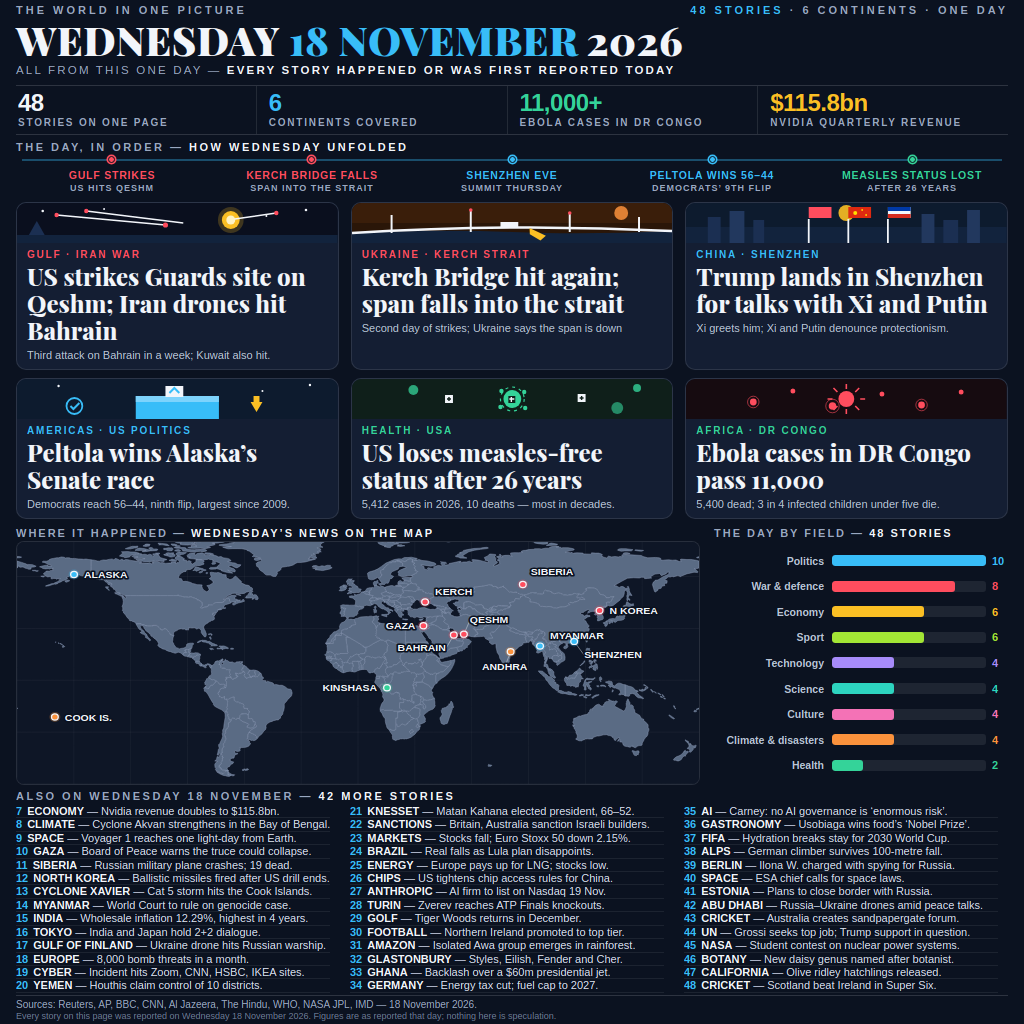
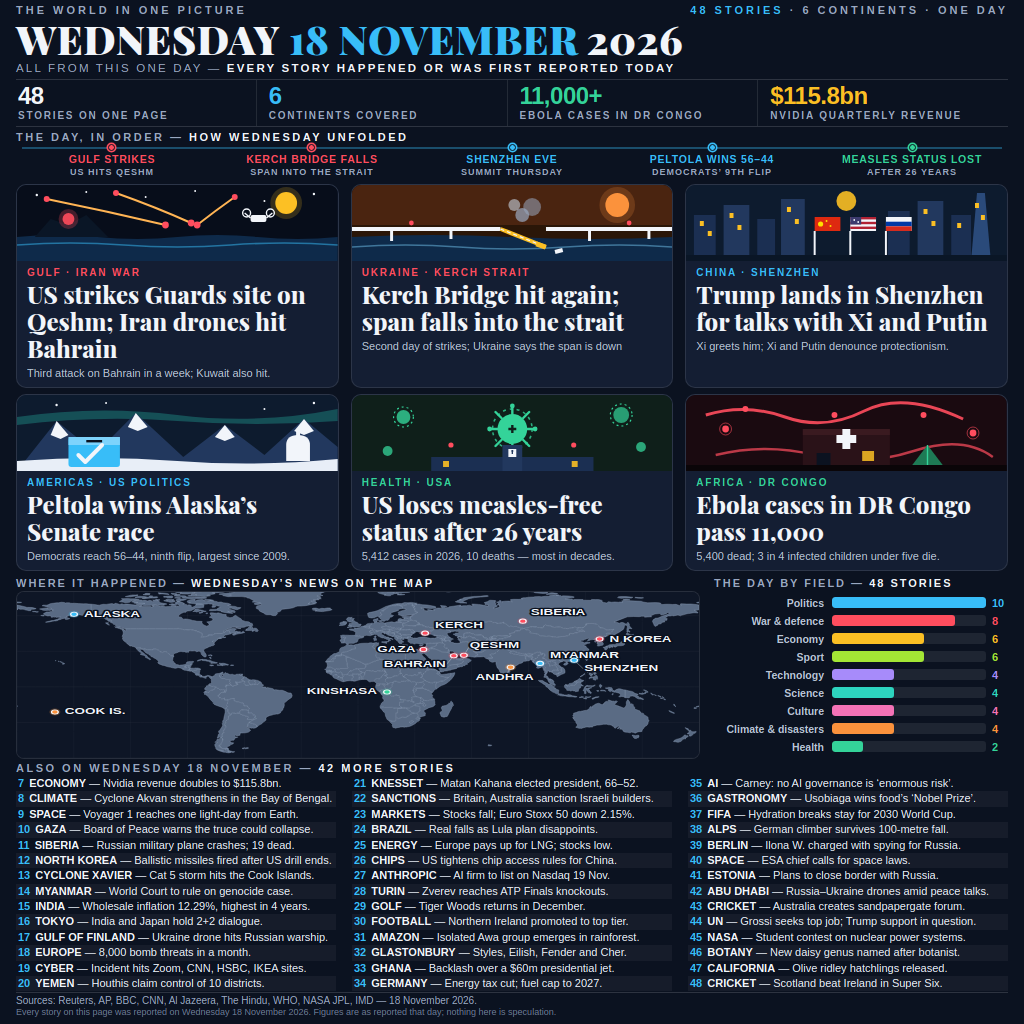
Round 8: big photo-style story panels readable at 300px

diff --git a/page.html b/page.html
@@ -4,17 +4,20 @@
 <meta charset="utf-8">
 <title>Wednesday 18 November 2026 — The Day in One Picture</title>
 <style>
-  /* Round 6 — the readability round. Danny's goal is top 1, and the parent
-     proved the gap at 300px: the #1 entry's big serif headlines partly read
-     at 300px wide, ours (14px) did not. So the leads are rebuilt: 6 BIG
-     cards only, 2 rows of 3, Playfair Display headlines at 24px, short
-     punchy wording, max 2 lines. The 6 old mini cards move into the ALSO
-     list (now 42 items, 7-48). Nothing else changes: the same dark navy
-     board, the same serif masthead, the same real Natural Earth map, the
-     same fixed timeline (7px dots ON the track, clear air to every letter).
-     Sans stays for everything small — at 300px a small serif turns to mush.
-     Playfair is vendored in fonts/ under the SIL OFL 1.1, so the render
-     needs no network. */
+  /* Round 8 — the photo-panel round. The judge's recurring praise for
+     OPPONENT entries is that their big photographic panels "read instantly
+     even small": at 300px the judge grasps each story from the picture
+     alone. Round 6/7 are mostly text, so round 8 gives each of the 6 lead
+     cards a BIG photo-style SVG scene (~76px, ~40% of the card) drawn in
+     original flat-vector style: Gulf missiles/drones over the night sea,
+     the Kerch span collapsing, the Shenzhen skyline with three flags,
+     Alaska mountains + ballot box + dome, a spiky measles virus + hospital,
+     an Ebola clinic + filament virus. All 48 story texts are byte-identical
+     to round 7; only page.html + main.ts changed.
+     GEOMETRY (measured, headless Chrome): scene 40->76 adds 36px/row
+     (+72 total); paid for by map 215->168 (-47) plus hero/spine/rows/
+     mapzone/alsotitle trims (-13); map labels 12.5->13.5 to offset the
+     extra vertical squash. */
   @font-face {
     font-family:"Playfair Display";
     src:url("fonts/PlayfairDisplay.ttf") format("truetype");
@@ -30,14 +33,14 @@
   /* masthead — broadsheet nameplate, serif 900, one line */
   .toprow { display:flex; justify-content:space-between; font-size:11px; font-weight:800; letter-spacing:3px; color:#9AA8C0; }
   .toprow b { color:#38BDF8; }
-  h1.nameplate { font-family:"Playfair Display", Georgia, "Liberation Serif", serif; font-size:40px; font-weight:900; line-height:1.04; letter-spacing:0.4px; margin-top:3px; }
+  h1.nameplate { font-family:"Playfair Display", Georgia, "Liberation Serif", serif; font-size:40px; font-weight:900; line-height:1.04; letter-spacing:0.4px; margin-top:2px; }
   h1.nameplate span { color:#38BDF8; }
-  .strapline { font-size:11.5px; letter-spacing:2.2px; color:#9AA8C0; margin-top:3px; }
+  .strapline { font-size:11.5px; letter-spacing:2.2px; color:#9AA8C0; margin-top:2px; }
   .strapline b { color:#F2F5FA; }
 
   /* hero numbers — sans, numbers stay clean */
-  .hero { display:flex; margin-top:9px; border-top:1px solid rgba(255,255,255,0.14); border-bottom:1px solid rgba(255,255,255,0.14); }
-  .hero .cell { flex:1; padding:5px 12px 6px; border-left:1px solid rgba(255,255,255,0.10); }
+  .hero { display:flex; margin-top:5px; border-top:1px solid rgba(255,255,255,0.14); border-bottom:1px solid rgba(255,255,255,0.14); }
+  .hero .cell { flex:1; padding:4px 12px 5px; border-left:1px solid rgba(255,255,255,0.10); }
   .hero .cell:first-child { border-left:none; padding-left:2px; }
   .hero .big { font-size:24px; font-weight:800; line-height:1; letter-spacing:-0.5px; }
   .hero .cap { font-size:10px; font-weight:800; letter-spacing:1.8px; color:#9AA8C0; margin-top:2px; }
@@ -48,12 +51,12 @@
   /* timeline — round 4 geometry, unchanged: dots live ON the 2px track
      (7px disc, 1.5px dark border + 1.5px colour ring = 10px visual), the
      header 6px above the track, the event names 10px below it. */
-  .spine { margin-top:6px; }
-  .spine .shead { font-size:11px; font-weight:800; letter-spacing:2.5px; color:#9AA8C0; margin-bottom:6px; }
+  .spine { margin-top:4px; }
+  .spine .shead { font-size:11px; font-weight:800; letter-spacing:2.5px; color:#9AA8C0; margin-bottom:4px; }
   .spine .shead b { color:#F2F5FA; }
   .spine .rail { position:relative; height:2px; background:rgba(56,189,248,0.35); margin:0 6px; }
   .spine .rail .dot { position:absolute; top:50%; width:7px; height:7px; margin:-3.5px 0 0 -3.5px; border-radius:50%; border:1.5px solid #0B1220; box-shadow:0 0 0 1.5px currentColor; background:currentColor; }
-  .spine .stops { display:flex; justify-content:space-between; margin:8px 6px 0; }
+  .spine .stops { display:flex; justify-content:space-between; margin:4px 6px 0; }
   .spine .stop { position:relative; width:180px; text-align:center; }
   .spine .stop .ev { font-size:10.5px; font-weight:800; letter-spacing:0.8px; line-height:1.25; }
   .spine .stop .ev small { display:block; font-size:9px; font-weight:700; color:#9AA8C0; letter-spacing:1px; margin-top:1px; }
@@ -63,20 +66,20 @@
      the parent's exact wording) needs 3 lines at any size >=21px — measured
      with canvas measureText — and it reads word-for-word at 300px, which is
      the acceptance test, so it stays verbatim instead of losing "Guards". */
-  .row { display:flex; gap:12px; margin-top:8px; }
+  .row { display:flex; gap:12px; margin-top:6px; }
   .story { flex:1; width:0; background:#141E33; border:1px solid rgba(255,255,255,0.10); border-radius:10px; overflow:hidden; }
-  .story .scene { width:100%; height:40px; display:block; }
+  .story .scene { width:100%; height:76px; display:block; }
   .story .txt { padding:6px 10px 7px; }
   .story .tag { font-size:10px; font-weight:800; letter-spacing:1.8px; }
   .story h2 { font-family:"Playfair Display", Georgia, "Liberation Serif", serif; font-size:24px; font-weight:800; line-height:1.12; margin-top:3px; }
   .story p { font-size:11px; line-height:1.3; color:#B9C4D6; margin-top:4px; white-space:nowrap; overflow:hidden; }
 
   /* map + field bars */
-  .mapzone { display:flex; gap:14px; margin-top:8px; }
+  .mapzone { display:flex; gap:14px; margin-top:6px; }
   .mapcol { width:684px; }
   .mapcol h4, .chartcol h4 { font-size:11px; font-weight:800; letter-spacing:2px; color:#9AA8C0; margin-bottom:2px; }
   .mapcol h4 b, .chartcol h4 b { color:#F2F5FA; }
-  #worldmap { width:684px; height:244px; display:block; background:#0E1626; border:1px solid rgba(255,255,255,0.10); border-radius:8px; }
+  #worldmap { width:684px; height:168px; display:block; background:#0E1626; border:1px solid rgba(255,255,255,0.10); border-radius:8px; }
   .chartcol { width:294px; display:flex; flex-direction:column; }
   .bars { flex:1; display:flex; flex-direction:column; justify-content:space-evenly; }
   .brow { display:flex; align-items:center; }
@@ -85,17 +88,22 @@
   .brow .bf { height:11px; border-radius:3px; }
   .brow .bn { width:22px; font-size:11px; font-weight:800; padding-left:6px; }
 
-  /* also list — 42 items now (7-48), three columns of 14 */
-  .alsotitle { font-size:11px; font-weight:800; letter-spacing:2.5px; color:#9AA8C0; margin:5px 0 3px; }
+  /* also list — 42 items (7-48), three columns of 14. Round 7: body
+     weight 600 + brighter ink + leading 1.4 + alternating row tint, so
+     the list reads better at full size and holds up better small. The
+     font stays 11px: the widest item is 314.4px at 11px and the columns
+     are 320px — any larger size truncates it (measured, not guessed). */
+  .alsotitle { font-size:11px; font-weight:800; letter-spacing:2.5px; color:#9AA8C0; margin:3px 0 2px; }
   .alsotitle b { color:#F2F5FA; }
-  .also { display:flex; gap:20px; }
-  .also ul { list-style:none; width:314px; }
-  .also li { font-size:11px; line-height:1.13; padding:0; border-bottom:1px solid rgba(255,255,255,0.07); white-space:nowrap; overflow:hidden; color:#D7DEEA; }
+  .also { display:flex; gap:16px; }
+  .also ul { list-style:none; width:320px; }
+  .also li { font-size:11px; line-height:1.4; padding:0 2px; white-space:nowrap; overflow:hidden; color:#E6ECF5; }
+  .also li:nth-child(even) { background:rgba(255,255,255,0.045); }
   .also li b { font-weight:800; color:#F2F5FA; }
   .also li .no { font-weight:800; margin-right:5px; color:#38BDF8; }
 
   /* footer */
-  .foot { margin-top:2px; border-top:1px solid rgba(255,255,255,0.14); padding-top:2px; }
+  .foot { margin-top:1px; border-top:1px solid rgba(255,255,255,0.14); padding-top:1px; }
   .foot .src { font-size:10px; color:#9AA8C0; line-height:1.3; }
   .foot .fine { font-size:9px; color:#6B7A94; margin-top:0; }
 </style>
@@ -133,44 +141,70 @@
 
   <div class="row">
     <div class="story">
-      <svg class="scene" viewBox="0 0 324 40" preserveAspectRatio="none">
-        <rect width="324" height="40" fill="#0A0F1E"/>
-        <circle cx="26" cy="8" r="1.3" fill="#F2F5FA"/><circle cx="88" cy="6" r="1" fill="#F2F5FA"/><circle cx="292" cy="7" r="1.3" fill="#F2F5FA"/><circle cx="252" cy="13" r="1" fill="#F2F5FA"/>
-        <path d="M0 32 L324 32 L324 40 L0 40 Z" fill="#12233D"/>
-        <circle cx="216" cy="17" r="9" fill="#FBBF24"/><circle cx="216" cy="17" r="13" fill="#FBBF24" opacity="0.22"/><circle cx="216" cy="17" r="4.5" fill="#FFF3C4"/>
-        <path d="M40 12 L150 22 M70 8 L168 20 M262 10 L220 16" stroke="#F2F5FA" stroke-width="1.4"/>
-        <circle cx="40" cy="12" r="2.2" fill="#FF4D5E"/><circle cx="70" cy="8" r="2.2" fill="#FF4D5E"/><circle cx="262" cy="10" r="2.2" fill="#FF4D5E"/>
-        <path d="M12 32 L20 18 L28 32 Z" fill="#1B2F52"/><circle cx="150" cy="22" r="2.6" fill="#FF4D5E"/>
+      <svg class="scene" viewBox="0 0 324 76" preserveAspectRatio="none">
+        <rect width="324" height="76" fill="#070D1A"/>
+        <circle cx="20" cy="10" r="1.2" fill="#F2F5FA"/><circle cx="70" cy="7" r="1" fill="#F2F5FA"/><circle cx="130" cy="12" r="1" fill="#F2F5FA"/><circle cx="300" cy="9" r="1.2" fill="#F2F5FA"/><circle cx="250" cy="16" r="1" fill="#F2F5FA"/><circle cx="180" cy="6" r="1" fill="#F2F5FA"/>
+        <circle cx="272" cy="18" r="11" fill="#FBBF24"/><circle cx="272" cy="18" r="16" fill="#FBBF24" opacity="0.18"/>
+        <path d="M0 52 Q40 48 81 52 T162 52 T243 52 T324 52 L324 76 L0 76 Z" fill="#0E2A4A"/>
+        <path d="M0 60 Q54 56 108 60 T216 60 T324 60" stroke="#38BDF8" stroke-width="1.6" fill="none" opacity="0.5"/>
+        <path d="M18 52 L34 34 L52 40 L70 30 L92 52 Z" fill="#0A1626"/>
+        <path d="M30 14 Q90 26 150 40" stroke="#FFB454" stroke-width="2" fill="none"/>
+        <path d="M100 8 Q140 22 176 38" stroke="#FFB454" stroke-width="2" fill="none"/>
+        <path d="M220 12 Q200 26 182 40" stroke="#FFB454" stroke-width="2" fill="none"/>
+        <circle cx="30" cy="14" r="3" fill="#FF4D5E"/><circle cx="100" cy="8" r="3" fill="#FF4D5E"/><circle cx="220" cy="12" r="3" fill="#FF4D5E"/>
+        <circle cx="150" cy="40" r="3.4" fill="#FF4D5E"/><circle cx="176" cy="38" r="3.4" fill="#FF4D5E"/><circle cx="182" cy="40" r="3.4" fill="#FF4D5E"/>
+        <circle cx="52" cy="34" r="6" fill="#FF4D5E" opacity="0.9"/><circle cx="52" cy="34" r="10" fill="#FF4D5E" opacity="0.25"/>
+        <rect x="236" y="30" width="16" height="7" rx="2" fill="#F2F5FA"/>
+        <circle cx="232" cy="28" r="4" fill="none" stroke="#F2F5FA" stroke-width="1.4"/><circle cx="256" cy="28" r="4" fill="none" stroke="#F2F5FA" stroke-width="1.4"/>
+        <path d="M236 33 L230 28 M252 33 L258 28" stroke="#F2F5FA" stroke-width="1.4"/>
       </svg>
       <div class="txt"><div class="tag r">GULF &middot; IRAN WAR</div>
       <h2>US strikes Guards site on Qeshm; Iran drones hit Bahrain</h2>
       <p>Third attack on Bahrain in a week; Kuwait also hit.</p></div>
     </div>
     <div class="story">
-      <svg class="scene" viewBox="0 0 324 40" preserveAspectRatio="none">
-        <rect width="324" height="40" fill="#2A1608"/>
-        <rect y="0" width="324" height="20" fill="#3A1E0A"/>
-        <circle cx="272" cy="10" r="7" fill="#FB923C" opacity="0.85"/>
-        <path d="M0 30 Q90 26 162 29 T324 28 L324 40 L0 40 Z" fill="#12233D"/>
-        <path d="M0 30 Q162 20 324 28" stroke="#F2F5FA" stroke-width="2.6" fill="none"/>
-        <path d="M150 24 L168 24 L168 19 L150 19 Z" fill="#F2F5FA"/>
-        <path d="M178 27 L196 30 L192 36 L180 33 Z" fill="#FBBF24" transform="rotate(16 186 31)"/>
-        <path d="M40 30 L40 12 M120 29 L120 8 M220 29 L220 11 M290 29 L290 14" stroke="#F2F5FA" stroke-width="2"/>
-        <circle cx="120" cy="7" r="1.8" fill="#FF4D5E"/><circle cx="220" cy="10" r="1.8" fill="#FF4D5E"/>
+      <svg class="scene" viewBox="0 0 324 76" preserveAspectRatio="none">
+        <rect width="324" height="76" fill="#2A1608"/>
+        <rect width="324" height="40" fill="#4A2410"/>
+        <circle cx="268" cy="20" r="12" fill="#FB923C"/><circle cx="268" cy="20" r="18" fill="#FB923C" opacity="0.2"/>
+        <path d="M0 52 Q81 48 162 52 T324 52 L324 76 L0 76 Z" fill="#0E2A4A"/>
+        <path d="M0 62 Q54 58 108 62 T216 62 T324 62" stroke="#7DD3FC" stroke-width="1.4" fill="none" opacity="0.45"/>
+        <path d="M0 44 L150 44" stroke="#F2F5FA" stroke-width="4"/>
+        <path d="M196 44 L324 44" stroke="#F2F5FA" stroke-width="4"/>
+        <path d="M150 44 L196 62" stroke="#FBBF24" stroke-width="4"/>
+        <path d="M150 44 L196 62" stroke="#F2F5FA" stroke-width="1.2" stroke-dasharray="4 3"/>
+        <path d="M40 44 V56 M100 44 V54 M240 44 V56 M300 44 V54" stroke="#F2F5FA" stroke-width="3"/>
+        <circle cx="172" cy="30" r="7" fill="#9AA8C0" opacity="0.7"/><circle cx="182" cy="22" r="9" fill="#9AA8C0" opacity="0.55"/><circle cx="164" cy="20" r="6" fill="#C7D2E0" opacity="0.6"/>
+        <rect x="186" y="58" width="10" height="5" fill="#FBBF24" transform="rotate(18 191 60)"/>
+        <rect x="205" y="64" width="8" height="4" fill="#F2F5FA" transform="rotate(-14 209 66)"/>
+        <circle cx="60" cy="38" r="2.4" fill="#FF4D5E"/><circle cx="280" cy="38" r="2.4" fill="#FF4D5E"/>
       </svg>
       <div class="txt"><div class="tag r">UKRAINE &middot; KERCH STRAIT</div>
       <h2>Kerch Bridge hit again; span falls into the strait</h2>
       <p>Second day of strikes; Ukraine says the span is down</p></div>
     </div>
     <div class="story">
-      <svg class="scene" viewBox="0 0 324 40" preserveAspectRatio="none">
-        <rect width="324" height="40" fill="#0D1B2E"/>
-        <rect x="0" y="24" width="324" height="16" fill="#12233D"/>
-        <rect x="22" y="14" width="13" height="26" fill="#1B2F52"/><rect x="44" y="8" width="15" height="32" fill="#22385E"/><rect x="68" y="17" width="11" height="23" fill="#1B2F52"/><rect x="238" y="11" width="13" height="29" fill="#22385E"/><rect x="260" y="17" width="15" height="23" fill="#1B2F52"/><rect x="284" y="7" width="13" height="33" fill="#22385E"/>
-        <circle cx="162" cy="10" r="8" fill="#FBBF24" opacity="0.9"/>
-        <path d="M124 40 L124 16 M164 40 L164 16 M204 40 L204 16" stroke="#F2F5FA" stroke-width="1.8"/>
-        <rect x="124" y="4" width="23" height="11" fill="#FF4D5E"/><rect x="164" y="4" width="23" height="11" fill="#DE2910"/><circle cx="171" cy="10" r="2" fill="#FFDE00"/><circle cx="178" cy="7" r="0.9" fill="#FFDE00"/><circle cx="182" cy="12" r="0.9" fill="#FFDE00"/>
-        <rect x="204" y="4" width="23" height="11" fill="#F2F5FA"/><rect x="204" y="4" width="23" height="4" fill="#0039A6"/><rect x="204" y="11" width="23" height="4" fill="#D52B1E"/>
+      <svg class="scene" viewBox="0 0 324 76" preserveAspectRatio="none">
+        <rect width="324" height="76" fill="#0D1B2E"/>
+        <circle cx="162" cy="16" r="10" fill="#FBBF24" opacity="0.9"/>
+        <rect x="8" y="30" width="22" height="46" fill="#1B2F52"/>
+        <rect x="38" y="20" width="26" height="56" fill="#22385E"/>
+        <rect x="72" y="34" width="18" height="42" fill="#1B2F52"/>
+        <rect x="96" y="14" width="24" height="62" fill="#22385E"/>
+        <rect x="204" y="26" width="22" height="50" fill="#1B2F52"/>
+        <rect x="234" y="16" width="26" height="60" fill="#22385E"/>
+        <rect x="268" y="30" width="20" height="46" fill="#1B2F52"/>
+        <path d="M288 76 L294 8 L302 8 L308 76 Z" fill="#2A4A7A"/>
+        <g fill="#FBBF24">
+          <rect x="14" y="36" width="4" height="5"/><rect x="22" y="46" width="4" height="5"/><rect x="44" y="28" width="4" height="5"/><rect x="52" y="40" width="4" height="5"/><rect x="102" y="22" width="4" height="5"/><rect x="110" y="34" width="4" height="5"/><rect x="240" y="24" width="4" height="5"/><rect x="248" y="36" width="4" height="5"/><rect x="274" y="38" width="4" height="5"/><rect x="292" y="18" width="4" height="5"/><rect x="298" y="30" width="4" height="5"/>
+        </g>
+        <path d="M130 76 V46 M166 76 V46 M202 76 V46" stroke="#F2F5FA" stroke-width="2"/>
+        <rect x="130" y="32" width="26" height="14" fill="#DE2910"/><circle cx="136" cy="39" r="2.6" fill="#FFDE00"/><circle cx="142" cy="36" r="1" fill="#FFDE00"/><circle cx="146" cy="41" r="1" fill="#FFDE00"/>
+        <rect x="166" y="32" width="26" height="14" fill="#F2F5FA"/>
+        <rect x="166" y="32" width="26" height="2.4" fill="#B22234"/><rect x="166" y="36.8" width="26" height="2.4" fill="#B22234"/><rect x="166" y="41.6" width="26" height="2.4" fill="#B22234"/>
+        <rect x="166" y="32" width="11" height="7.5" fill="#3C3B6E"/><circle cx="170" cy="35" r="0.9" fill="#F2F5FA"/><circle cx="174" cy="37" r="0.9" fill="#F2F5FA"/>
+        <rect x="202" y="32" width="26" height="14" fill="#F2F5FA"/><rect x="202" y="36.7" width="26" height="4.6" fill="#0039A6"/><rect x="202" y="41.3" width="26" height="4.7" fill="#D52B1E"/>
+        <rect y="70" width="324" height="6" fill="#0A1626"/>
       </svg>
       <div class="txt"><div class="tag cy">CHINA &middot; SHENZHEN</div>
       <h2>Trump lands in Shenzhen for talks with Xi and Putin</h2>
@@ -180,38 +214,66 @@
 
   <div class="row">
     <div class="story">
-      <svg class="scene" viewBox="0 0 324 40" preserveAspectRatio="none">
-        <rect width="324" height="40" fill="#0D1B2E"/>
-        <circle cx="42" cy="7" r="1.2" fill="#F2F5FA"/><circle cx="296" cy="6" r="1.2" fill="#F2F5FA"/><circle cx="248" cy="12" r="1" fill="#F2F5FA"/>
-        <rect x="120" y="17" width="84" height="23" fill="#38BDF8"/><rect x="120" y="17" width="84" height="6" fill="#7DD3FC"/>
-        <rect x="150" y="7" width="18" height="11" fill="#F2F5FA"/><path d="M154 14 L159 9 L164 14" stroke="#38BDF8" stroke-width="2" fill="none"/>
-        <path d="M236 23 l6 10 6-10 -3 0 0-6 -6 0 0 6 Z" fill="#FBBF24"/>
-        <circle cx="58" cy="27" r="8" fill="none" stroke="#38BDF8" stroke-width="1.8"/><path d="M54 27 L57 30 L63 24" stroke="#38BDF8" stroke-width="2" fill="none"/>
+      <svg class="scene" viewBox="0 0 324 76" preserveAspectRatio="none">
+        <rect width="324" height="76" fill="#0D1B2E"/>
+        <circle cx="40" cy="10" r="1.2" fill="#F2F5FA"/><circle cx="300" cy="8" r="1.2" fill="#F2F5FA"/><circle cx="250" cy="14" r="1" fill="#F2F5FA"/><circle cx="90" cy="8" r="1" fill="#F2F5FA"/>
+        <path d="M0 22 Q81 10 162 20 T324 14 L324 26 Q243 32 162 26 T0 30 Z" fill="#2DD4BF" opacity="0.28"/>
+        <path d="M0 76 L40 26 L80 58 L120 18 L168 62 L210 30 L250 60 L290 24 L324 52 L324 76 Z" fill="#22385E"/>
+        <path d="M40 26 L52 40 L44 44 L34 40 Z" fill="#F2F5FA"/>
+        <path d="M120 18 L132 32 L122 36 L112 32 Z" fill="#F2F5FA"/>
+        <path d="M210 30 L220 42 L210 46 L200 42 Z" fill="#F2F5FA"/>
+        <path d="M290 24 L300 36 L290 40 L280 36 Z" fill="#F2F5FA"/>
+        <path d="M0 66 Q81 60 162 66 T324 64 L324 76 L0 76 Z" fill="#E8EEF7"/>
+        <path d="M272 66 L272 50 Q272 40 284 40 Q296 40 296 50 L296 66 Z" fill="#F2F5FA"/>
+        <rect x="282" y="34" width="4" height="8" fill="#F2F5FA"/>
+        <rect x="52" y="42" width="52" height="30" rx="3" fill="#38BDF8"/>
+        <rect x="52" y="42" width="52" height="8" fill="#7DD3FC"/>
+        <rect x="70" y="45" width="16" height="2.4" fill="#0B1220"/>
+        <path d="M62 60 L69 67 L86 50" stroke="#F2F5FA" stroke-width="4" fill="none" stroke-linecap="round" stroke-linejoin="round"/>
       </svg>
       <div class="txt"><div class="tag cy">AMERICAS &middot; US POLITICS</div>
       <h2>Peltola wins Alaska&rsquo;s Senate race</h2>
       <p>Democrats reach 56&ndash;44, ninth flip, largest since 2009.</p></div>
     </div>
     <div class="story">
-      <svg class="scene" viewBox="0 0 324 40" preserveAspectRatio="none">
-        <rect width="324" height="40" fill="#0F1F1A"/>
-        <circle cx="162" cy="20" r="9" fill="#34D399"/><circle cx="162" cy="20" r="12" fill="none" stroke="#34D399" stroke-width="1.2" stroke-dasharray="3 4"/>
-        <circle cx="151" cy="12" r="2.2" fill="#34D399"/><circle cx="174" cy="13" r="2.2" fill="#34D399"/><circle cx="150" cy="28" r="2.2" fill="#34D399"/><circle cx="175" cy="29" r="2.2" fill="#34D399"/>
-        <circle cx="62" cy="11" r="5" fill="#34D399" opacity="0.75"/><circle cx="268" cy="29" r="6" fill="#34D399" opacity="0.6"/><circle cx="288" cy="9" r="4" fill="#34D399" opacity="0.8"/>
-        <rect x="94" y="16" width="8" height="8" fill="#F2F5FA"/><rect x="228" y="15" width="8" height="8" fill="#F2F5FA"/>
-        <path d="M96 20 h4 M98 18 v4 M230 19 h4 M232 17 v4" stroke="#0F1F1A" stroke-width="1.4"/>
-        <rect x="158" y="17" width="7" height="7" fill="#0F1F1A"/><path d="M159 20 h5 M161 18 v5" stroke="#F2F5FA" stroke-width="1.4"/>
+      <svg class="scene" viewBox="0 0 324 76" preserveAspectRatio="none">
+        <rect width="324" height="76" fill="#0F1F1A"/>
+        <circle cx="162" cy="34" r="15" fill="#34D399"/>
+        <circle cx="162" cy="34" r="20" fill="none" stroke="#34D399" stroke-width="1.6" stroke-dasharray="3 4" opacity="0.8"/>
+        <path d="M162 19 V11 M162 49 V57 M147 34 H139 M177 34 H185 M151 23 L145 17 M173 23 L179 17 M151 45 L145 51 M173 45 L179 51" stroke="#34D399" stroke-width="2.4" stroke-linecap="round"/>
+        <circle cx="162" cy="11" r="2.4" fill="#34D399"/><circle cx="162" cy="57" r="2.4" fill="#34D399"/><circle cx="139" cy="34" r="2.4" fill="#34D399"/><circle cx="185" cy="34" r="2.4" fill="#34D399"/>
+        <path d="M158 34 h8 M162 30 v8" stroke="#0F1F1A" stroke-width="2.4"/>
+        <circle cx="52" cy="22" r="7" fill="#34D399" opacity="0.8"/><circle cx="52" cy="22" r="10" fill="none" stroke="#34D399" stroke-width="1.2" stroke-dasharray="2 3"/>
+        <circle cx="272" cy="20" r="8" fill="#34D399" opacity="0.7"/><circle cx="272" cy="20" r="11" fill="none" stroke="#34D399" stroke-width="1.2" stroke-dasharray="2 3"/>
+        <circle cx="292" cy="52" r="5" fill="#34D399" opacity="0.75"/>
+        <circle cx="36" cy="56" r="5" fill="#34D399" opacity="0.75"/>
+        <circle cx="100" cy="50" r="2.6" fill="#FF4D5E"/><circle cx="224" cy="50" r="2.6" fill="#FF4D5E"/>
+        <rect x="80" y="62" width="164" height="14" fill="#1B2F52"/>
+        <rect x="152" y="50" width="20" height="26" fill="#22385E"/>
+        <rect x="158" y="54" width="8" height="8" fill="#F2F5FA"/><path d="M161 56 h2 M162 55 v4" stroke="#22385E" stroke-width="1.4"/>
+        <rect x="92" y="66" width="6" height="6" fill="#FBBF24" opacity="0.9"/><rect x="222" y="66" width="6" height="6" fill="#FBBF24" opacity="0.9"/>
       </svg>
       <div class="txt"><div class="tag em">HEALTH &middot; USA</div>
       <h2>US loses measles-free status after 26 years</h2>
       <p>5,412 cases in 2026, 10 deaths &mdash; most in decades.</p></div>
     </div>
     <div class="story">
-      <svg class="scene" viewBox="0 0 324 40" preserveAspectRatio="none">
-        <rect width="324" height="40" fill="#160B10"/>
-        <circle cx="68" cy="23" r="3.4" fill="#FF4D5E"/><circle cx="108" cy="12" r="2.5" fill="#FF4D5E"/><circle cx="148" cy="27" r="3.8" fill="#FF4D5E"/><circle cx="198" cy="15" r="2.5" fill="#FF4D5E"/><circle cx="238" cy="26" r="3.4" fill="#FF4D5E"/><circle cx="278" cy="13" r="2.5" fill="#FF4D5E"/>
-        <circle cx="68" cy="23" r="5.8" fill="none" stroke="#FF4D5E" stroke-width="1" opacity="0.6"/><circle cx="148" cy="27" r="6.8" fill="none" stroke="#FF4D5E" stroke-width="1" opacity="0.6"/><circle cx="238" cy="26" r="5.8" fill="none" stroke="#FF4D5E" stroke-width="1" opacity="0.6"/>
-        <circle cx="162" cy="20" r="8" fill="#FF4D5E"/><path d="M162 10 v-5 M162 30 v5 M148 20 h-5 M176 20 h5 M153 13 l-4 -4 M171 13 l4 -4 M153 27 l-4 4 M171 27 l4 4" stroke="#FF4D5E" stroke-width="1.6"/>
+      <svg class="scene" viewBox="0 0 324 76" preserveAspectRatio="none">
+        <rect width="324" height="76" fill="#1A0A10"/>
+        <path d="M20 20 Q60 8 100 22 T180 16 T280 24" stroke="#FF4D5E" stroke-width="3" fill="none" opacity="0.9"/>
+        <path d="M30 60 Q80 48 130 60 T230 56 T310 62" stroke="#FF4D5E" stroke-width="2.4" fill="none" opacity="0.7"/>
+        <circle cx="60" cy="14" r="3" fill="#FF4D5E"/><circle cx="150" cy="20" r="3" fill="#FF4D5E"/><circle cx="240" cy="20" r="3" fill="#FF4D5E"/>
+        <circle cx="40" cy="34" r="3.4" fill="#FF4D5E"/><circle cx="40" cy="34" r="6" fill="none" stroke="#FF4D5E" stroke-width="1" opacity="0.6"/>
+        <circle cx="290" cy="38" r="3.4" fill="#FF4D5E"/><circle cx="290" cy="38" r="6" fill="none" stroke="#FF4D5E" stroke-width="1" opacity="0.6"/>
+        <rect x="118" y="34" width="88" height="42" fill="#2A1218"/>
+        <rect x="118" y="34" width="88" height="6" fill="#3A1A20"/>
+        <rect x="152" y="40" width="20" height="8" fill="#F2F5FA"/>
+        <rect x="158" y="34" width="8" height="20" fill="#F2F5FA"/>
+        <rect x="132" y="58" width="14" height="18" fill="#0B1220"/>
+        <rect x="178" y="56" width="12" height="10" fill="#FBBF24" opacity="0.85"/>
+        <path d="M224 76 L244 50 L264 76 Z" fill="#1E7A55"/>
+        <path d="M244 50 L244 76" stroke="#34D399" stroke-width="1.4"/>
+        <rect y="70" width="324" height="6" fill="#0A0508"/>
       </svg>
       <div class="txt"><div class="tag em">AFRICA &middot; DR CONGO</div>
       <h2>Ebola cases in DR Congo pass 11,000</h2>
@@ -419,44 +481,44 @@
 <path d="M400.6,145.3L398.9,144.1L398.5,143.3L397.4,143.7L396.5,143.5L396.0,143.9L395.2,143.6L394.0,142.1L393.7,141.5L392.3,140.7L391.8,139.6L391.0,138.7L389.7,137.7L389.7,137.1L388.7,136.4L387.4,135.6L388.0,135.4L388.6,135.1L389.1,133.4L389.6,132.5L391.0,132.2L391.3,132.7L392.3,133.8L392.8,134.0L393.5,133.7L394.9,133.8L395.1,134.1L397.0,134.1L397.1,133.8L398.1,133.4L398.3,132.8L399.0,132.4L400.6,133.6L401.6,133.4L402.5,132.0L403.6,130.9L403.4,129.8L402.9,129.3L404.1,129.2L404.2,128.7L405.1,128.9L404.9,130.3L405.1,131.6L406.1,132.4L406.3,133.0L406.3,134.0L406.5,134.0L406.6,135.5L406.3,136.1L405.3,136.1L404.6,137.2L405.8,137.3L406.7,138.3L407.1,139.0L407.9,139.5L409.1,141.5L407.8,142.8L406.6,143.9L405.4,144.8L404.1,144.8L402.6,145.2L401.4,144.8Z" fill="#5A6B84" stroke="#8B9BB5" stroke-width="0.5" stroke-linejoin="round"/>
 <circle cx="57.2" cy="35.7" r="5.5" fill="#38BDF8" opacity="0.28"/>
 <circle cx="57.2" cy="35.7" r="3.4" fill="#38BDF8" stroke="#F2F5FA" stroke-width="1.3"/>
-<text x="67.2" y="39.7" font-size="10.5" font-weight="800" font-family="Liberation Sans, Arial, sans-serif" fill="#F2F5FA" text-anchor="start" paint-order="stroke" stroke="#0B1220" stroke-width="3.5" stroke-linejoin="round">ALASKA</text>
+<text x="67.2" y="39.7" font-size="13.5" font-weight="800" font-family="Liberation Sans, Arial, sans-serif" fill="#F2F5FA" text-anchor="start" paint-order="stroke" stroke="#0B1220" stroke-width="4" stroke-linejoin="round">ALASKA</text>
 <circle cx="409.3" cy="65.9" r="5.5" fill="#FF4D5E" opacity="0.28"/>
 <circle cx="409.3" cy="65.9" r="3.4" fill="#FF4D5E" stroke="#F2F5FA" stroke-width="1.3"/>
-<text x="419.3" y="57.9" font-size="10.5" font-weight="800" font-family="Liberation Sans, Arial, sans-serif" fill="#F2F5FA" text-anchor="start" paint-order="stroke" stroke="#0B1220" stroke-width="3.5" stroke-linejoin="round">KERCH</text>
+<text x="419.3" y="57.9" font-size="13.5" font-weight="800" font-family="Liberation Sans, Arial, sans-serif" fill="#F2F5FA" text-anchor="start" paint-order="stroke" stroke="#0B1220" stroke-width="4" stroke-linejoin="round">KERCH</text>
 <line x1="448.2" y1="101.3" x2="454.2" y2="86.3" stroke="rgba(242,245,250,0.55)" stroke-width="0.8"/>
 <circle cx="448.2" cy="101.3" r="5.5" fill="#FF4D5E" opacity="0.28"/>
 <circle cx="448.2" cy="101.3" r="3.4" fill="#FF4D5E" stroke="#F2F5FA" stroke-width="1.3"/>
-<text x="454.2" y="89.3" font-size="10.5" font-weight="800" font-family="Liberation Sans, Arial, sans-serif" fill="#F2F5FA" text-anchor="start" paint-order="stroke" stroke="#0B1220" stroke-width="3.5" stroke-linejoin="round">QESHM</text>
+<text x="454.2" y="89.3" font-size="13.5" font-weight="800" font-family="Liberation Sans, Arial, sans-serif" fill="#F2F5FA" text-anchor="start" paint-order="stroke" stroke="#0B1220" stroke-width="4" stroke-linejoin="round">QESHM</text>
 <line x1="438.1" y1="102.2" x2="430.1" y2="117.2" stroke="rgba(242,245,250,0.55)" stroke-width="0.8"/>
 <circle cx="438.1" cy="102.2" r="5.5" fill="#FF4D5E" opacity="0.28"/>
 <circle cx="438.1" cy="102.2" r="3.4" fill="#FF4D5E" stroke="#F2F5FA" stroke-width="1.3"/>
-<text x="430.1" y="120.2" font-size="10.5" font-weight="800" font-family="Liberation Sans, Arial, sans-serif" fill="#F2F5FA" text-anchor="end" paint-order="stroke" stroke="#0B1220" stroke-width="3.5" stroke-linejoin="round">BAHRAIN</text>
+<text x="430.1" y="120.2" font-size="13.5" font-weight="800" font-family="Liberation Sans, Arial, sans-serif" fill="#F2F5FA" text-anchor="end" paint-order="stroke" stroke="#0B1220" stroke-width="4" stroke-linejoin="round">BAHRAIN</text>
 <circle cx="407.6" cy="92.1" r="5.5" fill="#FF4D5E" opacity="0.28"/>
 <circle cx="407.6" cy="92.1" r="3.4" fill="#FF4D5E" stroke="#F2F5FA" stroke-width="1.3"/>
-<text x="399.6" y="96.1" font-size="10.5" font-weight="800" font-family="Liberation Sans, Arial, sans-serif" fill="#F2F5FA" text-anchor="end" paint-order="stroke" stroke="#0B1220" stroke-width="3.5" stroke-linejoin="round">GAZA</text>
+<text x="399.6" y="96.1" font-size="13.5" font-weight="800" font-family="Liberation Sans, Arial, sans-serif" fill="#F2F5FA" text-anchor="end" paint-order="stroke" stroke="#0B1220" stroke-width="4" stroke-linejoin="round">GAZA</text>
 <circle cx="371.1" cy="160.2" r="5.5" fill="#34D399" opacity="0.28"/>
 <circle cx="371.1" cy="160.2" r="3.4" fill="#34D399" stroke="#F2F5FA" stroke-width="1.3"/>
-<text x="361.1" y="164.2" font-size="10.5" font-weight="800" font-family="Liberation Sans, Arial, sans-serif" fill="#F2F5FA" text-anchor="end" paint-order="stroke" stroke="#0B1220" stroke-width="3.5" stroke-linejoin="round">KINSHASA</text>
+<text x="361.1" y="164.2" font-size="13.5" font-weight="800" font-family="Liberation Sans, Arial, sans-serif" fill="#F2F5FA" text-anchor="end" paint-order="stroke" stroke="#0B1220" stroke-width="4" stroke-linejoin="round">KINSHASA</text>
 <circle cx="524.6" cy="114.4" r="5.5" fill="#38BDF8" opacity="0.28"/>
 <circle cx="524.6" cy="114.4" r="3.4" fill="#38BDF8" stroke="#F2F5FA" stroke-width="1.3"/>
-<text x="534.6" y="106.4" font-size="10.5" font-weight="800" font-family="Liberation Sans, Arial, sans-serif" fill="#F2F5FA" text-anchor="start" paint-order="stroke" stroke="#0B1220" stroke-width="3.5" stroke-linejoin="round">MYANMAR</text>
+<text x="534.6" y="106.4" font-size="13.5" font-weight="800" font-family="Liberation Sans, Arial, sans-serif" fill="#F2F5FA" text-anchor="start" paint-order="stroke" stroke="#0B1220" stroke-width="4" stroke-linejoin="round">MYANMAR</text>
 <line x1="495.1" y1="120.6" x2="489.1" y2="137.6" stroke="rgba(242,245,250,0.55)" stroke-width="0.8"/>
 <circle cx="495.1" cy="120.6" r="5.5" fill="#FB923C" opacity="0.28"/>
 <circle cx="495.1" cy="120.6" r="3.4" fill="#FB923C" stroke="#F2F5FA" stroke-width="1.3"/>
-<text x="489.1" y="140.6" font-size="10.5" font-weight="800" font-family="Liberation Sans, Arial, sans-serif" fill="#F2F5FA" text-anchor="middle" paint-order="stroke" stroke="#0B1220" stroke-width="3.5" stroke-linejoin="round">ANDHRA</text>
+<text x="489.1" y="140.6" font-size="13.5" font-weight="800" font-family="Liberation Sans, Arial, sans-serif" fill="#F2F5FA" text-anchor="middle" paint-order="stroke" stroke="#0B1220" stroke-width="4" stroke-linejoin="round">ANDHRA</text>
 <circle cx="507.3" cy="46.7" r="5.5" fill="#FF4D5E" opacity="0.28"/>
 <circle cx="507.3" cy="46.7" r="3.4" fill="#FF4D5E" stroke="#F2F5FA" stroke-width="1.3"/>
-<text x="515.3" y="36.7" font-size="10.5" font-weight="800" font-family="Liberation Sans, Arial, sans-serif" fill="#F2F5FA" text-anchor="start" paint-order="stroke" stroke="#0B1220" stroke-width="3.5" stroke-linejoin="round">SIBERIA</text>
+<text x="515.3" y="36.7" font-size="13.5" font-weight="800" font-family="Liberation Sans, Arial, sans-serif" fill="#F2F5FA" text-anchor="start" paint-order="stroke" stroke="#0B1220" stroke-width="4" stroke-linejoin="round">SIBERIA</text>
 <circle cx="584.3" cy="75.4" r="5.5" fill="#FF4D5E" opacity="0.28"/>
 <circle cx="584.3" cy="75.4" r="3.4" fill="#FF4D5E" stroke="#F2F5FA" stroke-width="1.3"/>
-<text x="594.3" y="79.4" font-size="10.5" font-weight="800" font-family="Liberation Sans, Arial, sans-serif" fill="#F2F5FA" text-anchor="start" paint-order="stroke" stroke="#0B1220" stroke-width="3.5" stroke-linejoin="round">N KOREA</text>
+<text x="594.3" y="79.4" font-size="13.5" font-weight="800" font-family="Liberation Sans, Arial, sans-serif" fill="#F2F5FA" text-anchor="start" paint-order="stroke" stroke="#0B1220" stroke-width="4" stroke-linejoin="round">N KOREA</text>
 <line x1="558.8" y1="109.3" x2="568.8" y2="124.3" stroke="rgba(242,245,250,0.55)" stroke-width="0.8"/>
 <circle cx="558.8" cy="109.3" r="5.5" fill="#38BDF8" opacity="0.28"/>
 <circle cx="558.8" cy="109.3" r="3.4" fill="#38BDF8" stroke="#F2F5FA" stroke-width="1.3"/>
-<text x="568.8" y="127.3" font-size="10.5" font-weight="800" font-family="Liberation Sans, Arial, sans-serif" fill="#F2F5FA" text-anchor="start" paint-order="stroke" stroke="#0B1220" stroke-width="3.5" stroke-linejoin="round">SHENZHEN</text>
+<text x="568.8" y="127.3" font-size="13.5" font-weight="800" font-family="Liberation Sans, Arial, sans-serif" fill="#F2F5FA" text-anchor="start" paint-order="stroke" stroke="#0B1220" stroke-width="4" stroke-linejoin="round">SHENZHEN</text>
 <circle cx="38.0" cy="192.3" r="5.5" fill="#FB923C" opacity="0.28"/>
 <circle cx="38.0" cy="192.3" r="3.4" fill="#FB923C" stroke="#F2F5FA" stroke-width="1.3"/>
-<text x="48.0" y="196.3" font-size="10.5" font-weight="800" font-family="Liberation Sans, Arial, sans-serif" fill="#F2F5FA" text-anchor="start" paint-order="stroke" stroke="#0B1220" stroke-width="3.5" stroke-linejoin="round">COOK IS.</text>
+<text x="48.0" y="196.3" font-size="13.5" font-weight="800" font-family="Liberation Sans, Arial, sans-serif" fill="#F2F5FA" text-anchor="start" paint-order="stroke" stroke="#0B1220" stroke-width="4" stroke-linejoin="round">COOK IS.</text>
       </svg>
     </div>
     <div class="chartcol">

diff --git a/main.ts b/main.ts
@@ -1,13 +1,15 @@
-// Entry program for news-image-20261118, round 6 (Node 22, standard library only).
-// Round 6 is the readability round: the parent showed that at 300px wide the
-// #1 entry's big serif headlines still partly read while ours (14px) did not.
-// So the leads are rebuilt as 6 BIG cards, 2 rows of 3, with 24px Playfair
-// Display headlines in short punchy wording, max 2 lines each. The 6 old mini
-// cards move into the ALSO list, now 42 items (7-48); the story set is still
-// exactly the same 48 verified stories of Wednesday 18 November 2026.
-// Everything else is round 5 unchanged: the dark navy board, the serif
-// masthead, the real Natural Earth map (236-line SVG, same lat/lon dots), the
-// fixed timeline with its dots ON the track, and the field bars summing to 48.
+// Entry program for news-image-20261118, round 8 (Node 22, standard library only).
+// Round 8 is the photo-panel round: the judge praises opponent entries whose
+// big photographic panels "read instantly even small", so each of the 6 lead
+// cards now carries a big original flat-vector scene (~76px, ~40% of the
+// card) instead of the thin 40px decorative strip: Gulf missiles/drones,
+// the collapsing Kerch span, the Shenzhen skyline with three flags, Alaska
+// mountains + ballot box + dome, a spiky measles virus + hospital, and an
+// Ebola clinic + filament virus. The story set is still exactly the same 48
+// verified stories of Wednesday 18 November 2026; every headline, deck, date
+// and number is byte-identical to round 7. The ALSO list keeps round 7's
+// brighter ink, leading 1.4 and row tint; the map is 168px with 13.5px
+// labels; everything else is round 7 unchanged.
 // Playfair Display is vendored in fonts/ under the SIL OFL 1.1.
 // The image is the entry.png beside this file; the program copies it to
 // /output/entry.png, where the judge reads exactly those bytes.
